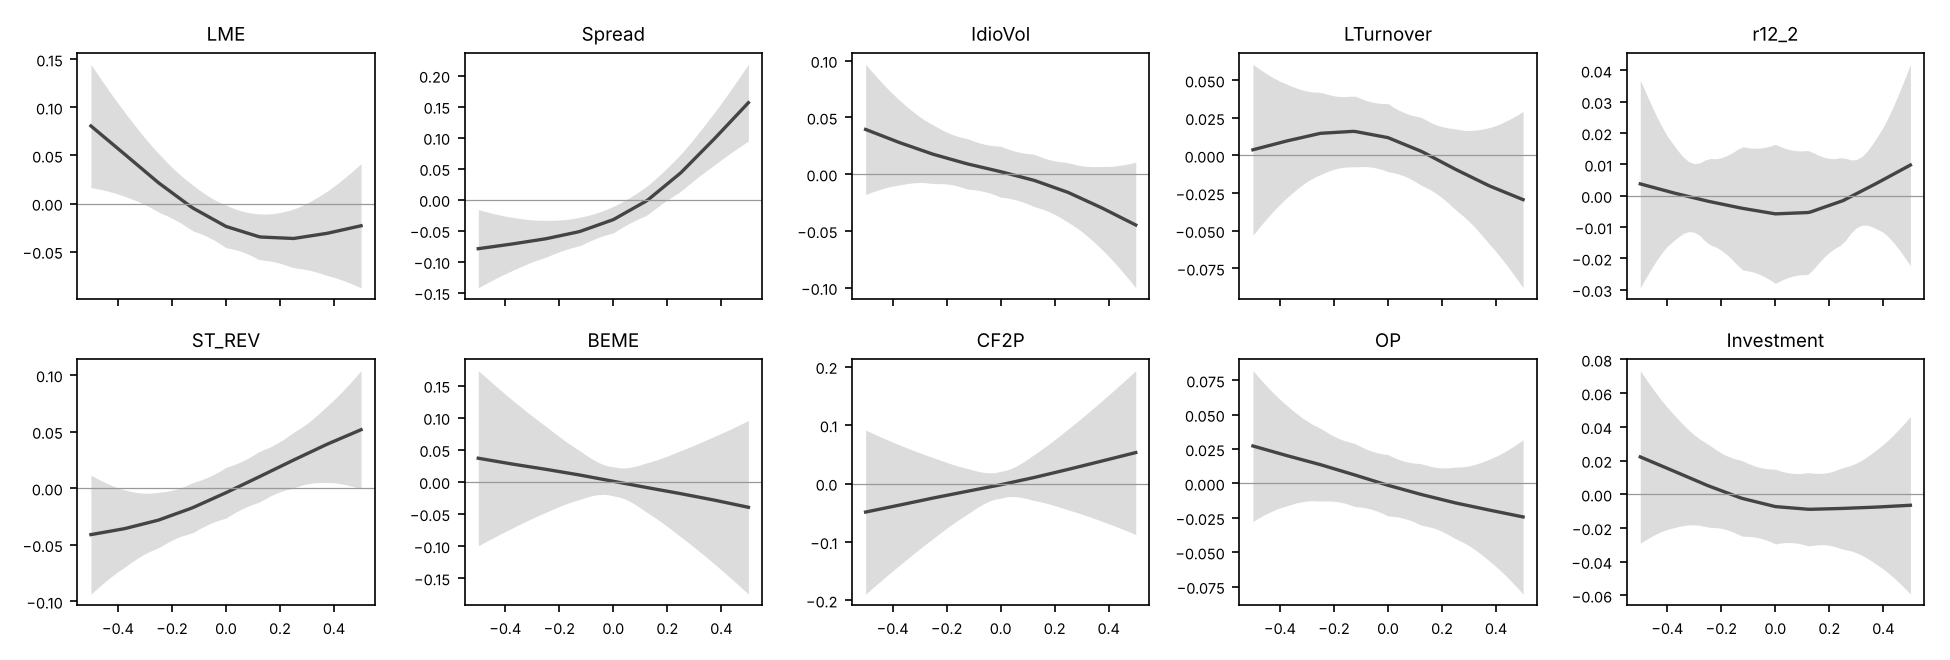
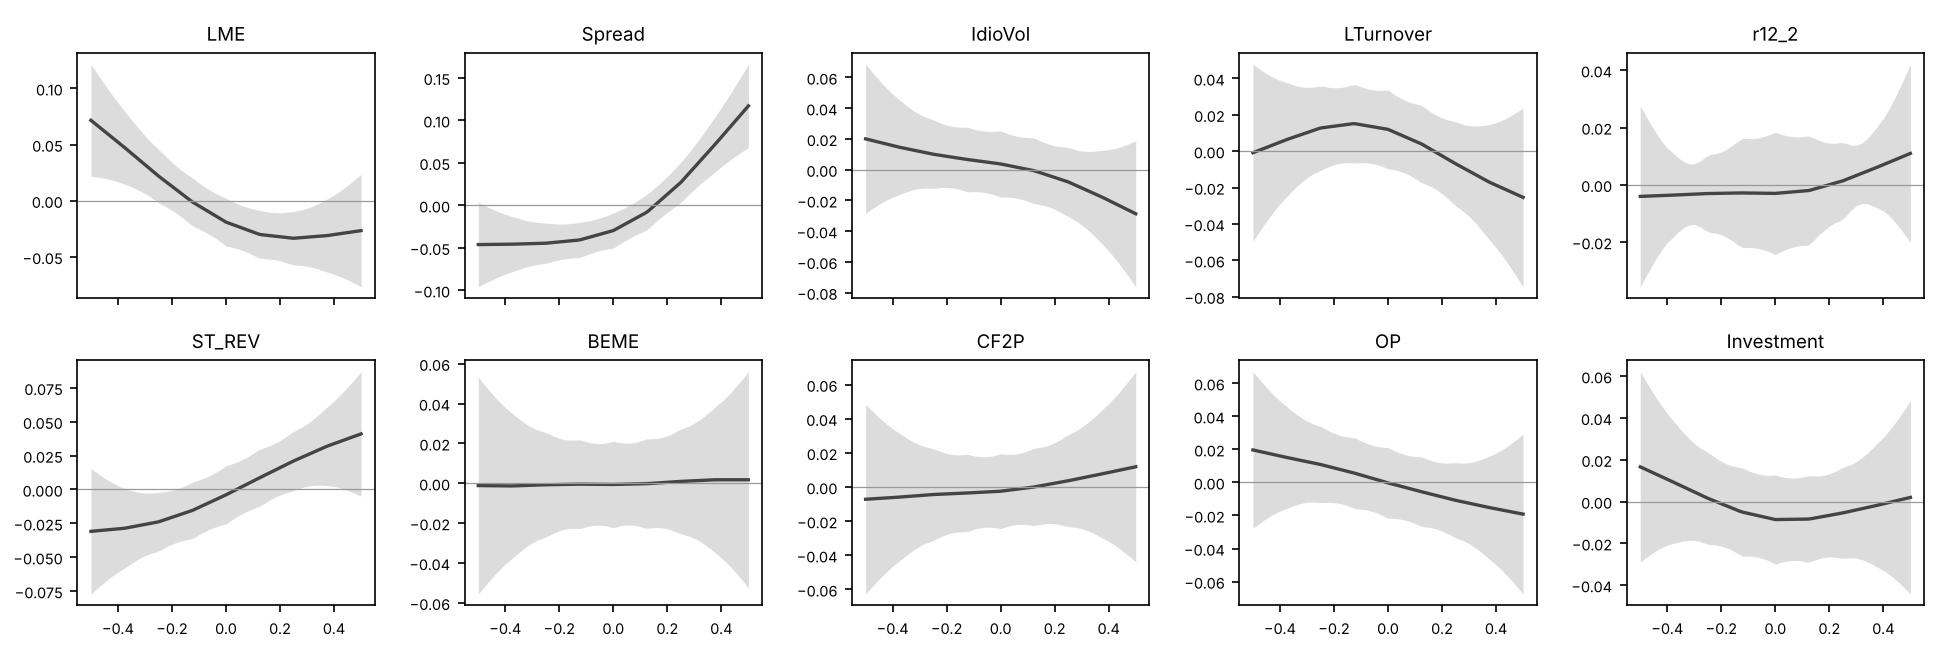
Regenerate the synthetic Paper 2 report with the current pipeline
The committed snapshot predated the validation-selected shrinkage step. Numbers quoted from it in
docs/paper2_rashomon_sdf.md are updated to the regenerated report.

Claude-Session: https://claude.ai/code/session_01LdZGH3ZPDQUHuEQHjcSaYT

diff --git a/docs/synthetic_validation/paper2_REPORT.md b/docs/synthetic_validation/paper2_REPORT.md
@@ -1,136 +1,147 @@
 # Paper 2 results: synthetic.json
 
-Glass-box SDF: `additive_state`, 273 parameters, J* = 2.926e-05, bootstrap-implied simultaneous eps (95%) = 1.224
+Glass-box SDF: `additive_state`, 273 parameters, L2 shrinkage 0.001 (chosen on validation Sharpe), J* = 3.127e-05, bootstrap-implied simultaneous eps (95%) = 0.917
+
+## Shrinkage selection (closed-form SDF)
+
+| shrink | sharpe_train | sharpe_valid |
+|---|---|---|
+| 0.0000 | 0.9323 | 0.7538 |
+| 0.0001 | 0.9322 | 0.7677 |
+| 0.0010 | 0.9111 | 0.7868 |
+| 0.0100 | 0.7707 | 0.7587 |
+| 0.1000 | 0.6038 | 0.7118 |
+| 1.0000 | 0.5302 | 0.6678 |
 
 ## Reference performance
 
 | split | sharpe_raw | sharpe | ev | xs_r2 |
 |---|---|---|---|---|
-| train | 0.9323 | 0.8947 | 0.0039 | 0.0249 |
-| valid | 0.7538 | 0.7797 | 0.0050 | 0.0187 |
-| test | 0.7642 | 0.7486 | 0.0069 | 0.0461 |
+| train | 0.9111 | 0.8015 | 0.0081 | 0.0442 |
+| valid | 0.7868 | 0.7695 | 0.0113 | 0.0392 |
+| test | 0.7722 | 0.7199 | 0.0137 | 0.0987 |
 
 ## Identification: eps=0.002
 
 | feature | importance | min | max | identified | slope | lo | hi | sign_identified |
 |---|---|---|---|---|---|---|---|---|
-| LME | 0.101 | 0.042 | 0.192 | True | -0.104 | -0.156 | -0.051 | True |
-| Spread | 0.370 | 0.246 | 0.522 | True | 0.235 | 0.184 | 0.286 | True |
-| IdioVol | 0.072 | 0.028 | 0.139 | True | -0.084 | -0.128 | -0.040 | True |
-| LTurnover | 0.023 | 0.004 | 0.064 | False | -0.033 | -0.079 | 0.012 | False |
-| r12_2 | 0.014 | 0.009 | 0.024 | False | 0.006 | -0.011 | 0.023 | False |
-| ST_REV | 0.066 | 0.027 | 0.124 | True | 0.093 | 0.052 | 0.133 | True |
-| BEME | 0.608 | 0.225 | 1.180 | True | -0.076 | -0.195 | 0.043 | False |
-| CF2P | 0.846 | 0.366 | 1.533 | True | 0.102 | -0.021 | 0.225 | False |
-| OP | 0.060 | 0.020 | 0.124 | True | -0.052 | -0.095 | -0.008 | True |
-| Investment | 0.025 | 0.009 | 0.054 | False | -0.029 | -0.069 | 0.011 | False |
-| group:value | 0.154 | 0.094 | 0.232 | True |  |  |  |  |
+| LME | 0.146 | 0.073 | 0.247 | True | -0.098 | -0.137 | -0.060 | True |
+| Spread | 0.332 | 0.222 | 0.468 | True | 0.163 | 0.125 | 0.201 | True |
+| IdioVol | 0.051 | 0.014 | 0.113 | True | -0.049 | -0.085 | -0.012 | True |
+| LTurnover | 0.026 | 0.005 | 0.068 | False | -0.025 | -0.062 | 0.013 | False |
+| r12_2 | 0.018 | 0.014 | 0.027 | True | 0.015 | -0.002 | 0.032 | False |
+| ST_REV | 0.073 | 0.028 | 0.140 | True | 0.072 | 0.037 | 0.106 | True |
+| BEME | 0.025 | 0.000 | 0.095 | False | 0.003 | -0.040 | 0.046 | False |
+| CF2P | 0.048 | 0.011 | 0.116 | True | 0.019 | -0.025 | 0.063 | False |
+| OP | 0.049 | 0.013 | 0.110 | True | -0.039 | -0.075 | -0.002 | True |
+| Investment | 0.021 | 0.005 | 0.050 | False | -0.015 | -0.049 | 0.020 | False |
+| group:value | 0.096 | 0.058 | 0.143 | True |  |  |  |  |
 
 ## Identification: eps=0.01
 
 | feature | importance | min | max | identified | slope | lo | hi | sign_identified |
 |---|---|---|---|---|---|---|---|---|
-| LME | 0.101 | 0.008 | 0.352 | False | -0.104 | -0.221 | 0.013 | False |
-| Spread | 0.370 | 0.132 | 0.751 | True | 0.235 | 0.121 | 0.349 | True |
-| IdioVol | 0.072 | 0.002 | 0.254 | False | -0.084 | -0.183 | 0.015 | False |
-| LTurnover | 0.023 | 0.000 | 0.148 | False | -0.033 | -0.135 | 0.069 | False |
-| r12_2 | 0.014 | 0.007 | 0.043 | False | 0.006 | -0.032 | 0.045 | False |
-| ST_REV | 0.066 | 0.003 | 0.225 | False | 0.093 | 0.003 | 0.183 | True |
-| BEME | 0.608 | 0.010 | 2.147 | False | -0.076 | -0.343 | 0.190 | False |
-| CF2P | 0.846 | 0.049 | 2.679 | True | 0.102 | -0.173 | 0.377 | False |
-| OP | 0.060 | 0.000 | 0.235 | False | -0.052 | -0.149 | 0.046 | False |
-| Investment | 0.025 | 0.000 | 0.110 | False | -0.029 | -0.118 | 0.061 | False |
-| group:value | 0.154 | 0.045 | 0.359 | True |  |  |  |  |
+| LME | 0.146 | 0.019 | 0.413 | True | -0.098 | -0.184 | -0.012 | True |
+| Spread | 0.332 | 0.119 | 0.671 | True | 0.163 | 0.077 | 0.249 | True |
+| IdioVol | 0.051 | 0.000 | 0.225 | False | -0.049 | -0.130 | 0.033 | False |
+| LTurnover | 0.026 | 0.000 | 0.157 | False | -0.025 | -0.108 | 0.059 | False |
+| r12_2 | 0.018 | 0.011 | 0.051 | True | 0.015 | -0.022 | 0.052 | False |
+| ST_REV | 0.073 | 0.002 | 0.254 | False | 0.072 | -0.005 | 0.149 | False |
+| BEME | 0.025 | 0.000 | 0.247 | False | 0.003 | -0.093 | 0.099 | False |
+| CF2P | 0.048 | 0.000 | 0.245 | False | 0.019 | -0.079 | 0.118 | False |
+| OP | 0.049 | 0.000 | 0.220 | False | -0.039 | -0.120 | 0.043 | False |
+| Investment | 0.021 | 0.000 | 0.108 | False | -0.015 | -0.091 | 0.062 | False |
+| group:value | 0.096 | 0.025 | 0.217 | True |  |  |  |  |
 
 ## Identification: eps=0.05
 
 | feature | importance | min | max | identified | slope | lo | hi | sign_identified |
 |---|---|---|---|---|---|---|---|---|
-| LME | 0.101 | 0.000 | 0.905 | False | -0.104 | -0.366 | 0.158 | False |
-| Spread | 0.370 | 0.011 | 1.438 | True | 0.235 | -0.020 | 0.490 | False |
-| IdioVol | 0.072 | 0.000 | 0.659 | False | -0.084 | -0.306 | 0.137 | False |
-| LTurnover | 0.023 | 0.000 | 0.488 | False | -0.033 | -0.261 | 0.195 | False |
-| r12_2 | 0.014 | 0.004 | 0.125 | False | 0.006 | -0.080 | 0.092 | False |
-| ST_REV | 0.066 | 0.000 | 0.579 | False | 0.093 | -0.109 | 0.294 | False |
-| BEME | 0.608 | 0.000 | 5.364 | False | -0.076 | -0.672 | 0.519 | False |
-| CF2P | 0.846 | 0.000 | 6.506 | False | 0.102 | -0.514 | 0.718 | False |
-| OP | 0.060 | 0.000 | 0.624 | False | -0.052 | -0.269 | 0.166 | False |
-| Investment | 0.025 | 0.000 | 0.330 | False | -0.029 | -0.229 | 0.171 | False |
-| group:value | 0.154 | 0.001 | 0.767 | False |  |  |  |  |
+| LME | 0.146 | 0.000 | 0.951 | False | -0.098 | -0.291 | 0.095 | False |
+| Spread | 0.332 | 0.007 | 1.272 | False | 0.163 | -0.029 | 0.355 | False |
+| IdioVol | 0.051 | 0.000 | 0.630 | False | -0.049 | -0.230 | 0.133 | False |
+| LTurnover | 0.026 | 0.000 | 0.525 | False | -0.025 | -0.211 | 0.162 | False |
+| r12_2 | 0.018 | 0.007 | 0.170 | False | 0.015 | -0.068 | 0.098 | False |
+| ST_REV | 0.073 | 0.000 | 0.643 | False | 0.072 | -0.100 | 0.244 | False |
+| BEME | 0.025 | 0.000 | 0.843 | False | 0.003 | -0.211 | 0.217 | False |
+| CF2P | 0.048 | 0.000 | 0.753 | False | 0.019 | -0.201 | 0.239 | False |
+| OP | 0.049 | 0.000 | 0.605 | False | -0.039 | -0.221 | 0.143 | False |
+| Investment | 0.021 | 0.000 | 0.353 | False | -0.015 | -0.186 | 0.157 | False |
+| group:value | 0.096 | 0.000 | 0.443 | False |  |  |  |  |
 
 ## Identification: bootstrap (marginal, Bonferroni)
 
 | feature | importance | min | max | identified | slope | lo | hi | sign_identified |
 |---|---|---|---|---|---|---|---|---|
-| LME | 0.101 | 0.022 | 1.524 | True | -0.104 | -0.431 | 0.166 | False |
-| Spread | 0.370 | 0.105 | 2.417 | True | 0.235 | -0.071 | 0.469 | False |
-| IdioVol | 0.072 | 0.021 | 0.723 | True | -0.084 | -0.283 | 0.149 | False |
-| LTurnover | 0.023 | 0.022 | 1.057 | True | -0.033 | -0.276 | 0.194 | False |
-| r12_2 | 0.014 | 0.009 | 0.173 | False | 0.006 | -0.071 | 0.109 | False |
-| ST_REV | 0.066 | 0.014 | 0.706 | True | 0.093 | -0.115 | 0.285 | False |
-| BEME | 0.608 | 0.126 | 6.508 | True | -0.076 | -0.683 | 0.509 | False |
-| CF2P | 0.846 | 0.155 | 8.487 | True | 0.102 | -0.528 | 0.750 | False |
-| OP | 0.060 | 0.015 | 1.389 | True | -0.052 | -0.242 | 0.250 | False |
-| Investment | 0.025 | 0.014 | 0.740 | True | -0.029 | -0.309 | 0.200 | False |
-| group:value | 0.154 | 0.093 | 1.020 | True |  |  |  |  |
+| LME | 0.146 | 0.028 | 1.009 | True | -0.098 | -0.253 | 0.059 | False |
+| Spread | 0.332 | 0.115 | 1.403 | True | 0.163 | -0.016 | 0.282 | False |
+| IdioVol | 0.051 | 0.020 | 0.506 | True | -0.049 | -0.170 | 0.109 | False |
+| LTurnover | 0.026 | 0.029 | 0.636 | True | -0.025 | -0.194 | 0.111 | False |
+| r12_2 | 0.018 | 0.016 | 0.200 | True | 0.015 | -0.046 | 0.099 | False |
+| ST_REV | 0.073 | 0.010 | 0.733 | True | 0.072 | -0.094 | 0.203 | False |
+| BEME | 0.025 | 0.005 | 0.270 | False | 0.003 | -0.085 | 0.100 | False |
+| CF2P | 0.048 | 0.019 | 0.263 | True | 0.019 | -0.076 | 0.130 | False |
+| OP | 0.049 | 0.018 | 0.684 | True | -0.039 | -0.183 | 0.141 | False |
+| Investment | 0.021 | 0.016 | 0.519 | True | -0.015 | -0.184 | 0.147 | False |
+| group:value | 0.096 | 0.038 | 0.452 | True |  |  |  |  |
 
 ## SDF ambiguity
 
-Share of stock-months whose SDF weight sign is not identified (eps=0.01): {'train': 0.7865370149815082, 'valid': 0.7664440301149371, 'test': 0.8121064833884502}
+Share of stock-months whose SDF weight sign is not identified (eps=0.01): {'train': 0.8331309158152072, 'valid': 0.8139293384626277, 'test': 0.8431817914347248}
 
 ### Hold-out sorts on ambiguity
 
 | portfolio | mean | t_mean | alpha | t_alpha |
 |---|---|---|---|---|
-| Q1 | 0.0125 | 4.9906 | -0.0001 | -0.1635 |
-| Q2 | 0.0129 | 5.2119 | -0.0003 | -0.4845 |
-| Q3 | 0.0121 | 5.0214 | -0.0005 | -0.8358 |
-| Q4 | 0.0132 | 5.5465 | 0.0008 | 1.5134 |
-| Q5 | 0.0132 | 5.3917 | 0.0000 | 0.0283 |
-| H-L | 0.0007 | 0.9903 | 0.0001 | 0.1276 |
+| Q1 | 0.0121 | 4.7415 | -0.0006 | -1.2209 |
+| Q2 | 0.0126 | 5.2676 | -0.0005 | -1.0867 |
+| Q3 | 0.0127 | 5.2416 | -0.0000 | -0.0536 |
+| Q4 | 0.0131 | 5.3765 | 0.0005 | 1.3013 |
+| Q5 | 0.0133 | 5.6873 | 0.0007 | 1.1419 |
+| H-L | 0.0012 | 1.8068 | 0.0013 | 1.3832 |
 
 ### Hold-out Fama-MacBeth: returns on standardized ambiguity, reference SDF weight, |weight|, characteristics and their squares
 
 | variable | coef | t |
 |---|---|---|
-| const | 0.0091 | 3.3447 |
-| ambiguity | -0.0000 | -0.1734 |
-| sdf_weight | 0.0026 | 0.6858 |
-| abs_sdf_weight | 0.0003 | 0.9601 |
-| LME | -0.0012 | -0.2825 |
-| Spread | -0.0018 | -0.2217 |
-| IdioVol | -0.0022 | -0.6992 |
-| LTurnover | 0.0009 | 0.5193 |
-| r12_2 | 0.0587 | 5.1662 |
-| ST_REV | -0.0015 | -0.4028 |
-| BEME | 0.0194 | 2.1439 |
-| CF2P | -0.0026 | -0.2555 |
-| OP | 0.0071 | 1.8485 |
-| Investment | -0.0085 | -3.4439 |
-| LME^2 | 0.0038 | 0.4692 |
-| Spread^2 | 0.0083 | 0.7051 |
-| IdioVol^2 | -0.0002 | -0.0590 |
-| LTurnover^2 | 0.0026 | 0.5409 |
-| r12_2^2 | 0.0026 | 0.7694 |
-| ST_REV^2 | 0.0273 | 4.4399 |
-| BEME^2 | 0.0082 | 1.4049 |
-| CF2P^2 | -0.0022 | -0.4042 |
-| OP^2 | -0.0050 | -1.3404 |
-| Investment^2 | -0.0018 | -0.4197 |
+| const | 0.0098 | 3.5582 |
+| ambiguity | 0.0002 | 0.5703 |
+| sdf_weight | 0.0018 | 0.5912 |
+| abs_sdf_weight | 0.0005 | 1.6830 |
+| LME | -0.0015 | -0.3670 |
+| Spread | -0.0004 | -0.0602 |
+| IdioVol | -0.0022 | -1.1231 |
+| LTurnover | 0.0013 | 0.9119 |
+| r12_2 | 0.0588 | 5.1709 |
+| ST_REV | -0.0010 | -0.3216 |
+| BEME | 0.0160 | 4.6027 |
+| CF2P | 0.0019 | 0.6497 |
+| OP | 0.0072 | 2.3785 |
+| Investment | -0.0083 | -3.9281 |
+| LME^2 | 0.0047 | 0.6709 |
+| Spread^2 | 0.0086 | 0.7240 |
+| IdioVol^2 | -0.0021 | -0.5630 |
+| LTurnover^2 | 0.0004 | 0.0856 |
+| r12_2^2 | 0.0020 | 0.6849 |
+| ST_REV^2 | 0.0260 | 4.1536 |
+| BEME^2 | 0.0067 | 1.1608 |
+| CF2P^2 | -0.0029 | -0.5332 |
+| OP^2 | -0.0053 | -1.3433 |
+| Investment^2 | -0.0027 | -0.5685 |
 
-### Monthly ambiguity index vs macro series
+### Monthly ambiguity index vs macro series (top 15 by |corr|; all in ambiguity_index_vs_macro.csv)
 
 | macro | corr |
 |---|---|
-| vix | 0.5729 |
-| credit_spread | 0.5627 |
-| ip_growth | -0.1638 |
-| inflation | -0.0625 |
-| unemployment | -0.0098 |
-| term_spread | -0.0061 |
+| vix | 0.7180 |
+| credit_spread | 0.5668 |
+| ip_growth | -0.1549 |
+| inflation | -0.1132 |
+| term_spread | -0.0277 |
+| unemployment | 0.0210 |
 
 ## Sharpe ratio across the Rashomon set (test, raw SDF portfolio)
 
 | eps | sharpe_raw_ref | min | max |
 |---|---|---|---|
-| 0.0100 | 0.7642 | 0.7470 | 0.7815 |
+| 0.0100 | 0.7722 | 0.7557 | 0.7891 |

diff --git a/docs/paper2_rashomon_sdf.md b/docs/paper2_rashomon_sdf.md
@@ -66,8 +66,8 @@ Two complementary notions are reported:
   with identification of the beta / risk-premium side (CPZ's second network,
   `src/model/model_RtnFcst.py`).
 * **Collinear proxies.** With a priced value factor loading on BEME and a near-duplicate CF2P
-  (correlation 0.95–0.99), the joint value contribution has a lower bound of 0.17, so it is identified.
-  BEME and CF2P individually each have lower bound 0: either can carry all of it. This is the
+  (correlation 0.95–0.99), the joint value contribution has a lower bound of 0.025 at ε = 1%, so it is
+  identified. BEME and CF2P individually each have lower bound 0: either can carry all of it. This is the
   prototype "the data identifies the theme, not the variable" result to look for among the CPZ value,
   profitability and trading-friction clusters.
 * **Mechanical components of ambiguity:**
@@ -77,10 +77,10 @@ Two complementary notions are reported:
      ambiguity "premium" (t = 3.9);
   2. ambiguity is also high for *extreme characteristics*, so with linear characteristic controls it
      absorbs nonlinear characteristic premia. Even with the weight controls, the no-effect synthetic panel
-     still gave t = 3.6. Adding squared characteristics (now the default) brings it to −0.2. On real
+     still gave t = 3.6. Adding squared characteristics (now the default) brings it to 0.6. On real
      data, also try decile-dummy controls and the glass-box shape features themselves;
   3. state-varying shapes extrapolate in extreme states, so the monthly index co-moves with |s_t|
-     (correlation ≈ 0.57 with VIX and with the credit spread in synthetic data). Report the index both
+     (correlation 0.72 with VIX and 0.57 with the credit spread in synthetic data). Report the index both
      raw and residualized on the state variables.
 
 Full pipeline snapshot: `docs/synthetic_validation/paper2_REPORT.md` and `paper2_shape_bands.png`.
